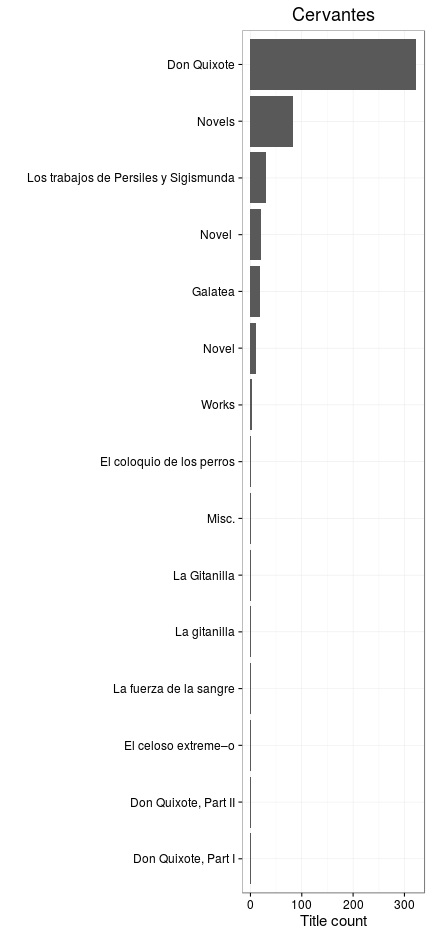
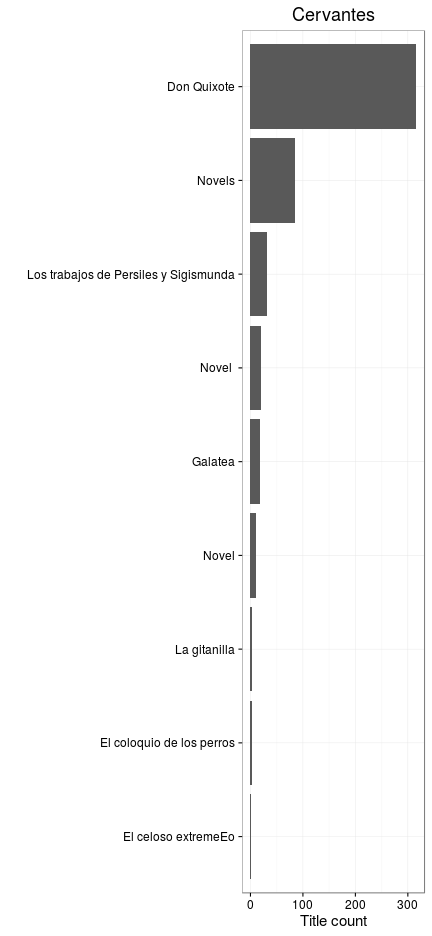
ok

diff --git a/inst/examples/Shakespeare.md b/inst/examples/Shakespeare.md
@@ -6,29 +6,33 @@ output: markdown_document
 ---
 
 
-We are a team of an early modern intellectual historian [Mikko Tolonen](https://twitter.com/mikko_tolonen) and a data scientist in the field of bioinformatics ([Leo Lahti](http://www.iki.fi/Leo.Lahti)). Often on Friday nights we skype to discuss what should we do in the domain of digital humanities that nicely combines our interests. Today’s task was to do something to celebrate Shakespeare & Cervantes.
+We are a team of an early modern intellectual historian [Mikko
+Tolonen](https://twitter.com/mikko_tolonen) and a computational
+scientist and bioinformatician ([Leo
+Lahti](http://www.iki.fi/Leo.Lahti)). Often on Friday nights we skype
+to discuss digital humanities, a field that nicely combines our mutual
+interests in science and philosophy. Today’s task was to do something
+to celebrate Shakespeare & Cervantes.
 
-We have a peculiar interest in [library
+We decided to build on our peculiar interest in [library
 catalogues](https://www.liberquarterly.eu/article/10.18352/lq.10112/)
-so we decided to build on that. We used the [CERL Heritage of the
-Printed Book Catalogue (HPB)](https://www.cerl.org/resources/hpb/main)
-and [British Library’s English Short-Title Catalogue
-(ESTC)](http://estc.bl.uk/F/?func=file&file_name=login-bl-estc) to
-analyse the early modern publishing (1593-1800) of Shakespeare and
-Cervantes. Here are some graphs that we thought you might find
-interesting. All illustrations are based on combined data from the
-ESTC and CERL catalogues unless otherwise mentioned.
+by taking the [CERL Heritage of the Printed Book Catalogue
+(HPB)](https://www.cerl.org/resources/hpb/main) and [British Library’s
+English Short-Title Catalogue
+(ESTC)](http://estc.bl.uk/F/?func=file&file_name=login-bl-estc). We
+then carried out a brief but revealing analysis concerning the early
+modern publishing (1593-1800) of Shakespeare and Cervantes. Check
+below for some graphs that we thought you might find interesting.
 
 In the ESTC and CERL catalogues, we have metadata on roughly 0.5 and 5
-million documents in total, respectively, covering publication
-activity around 1470-1800. With a combination of
-[automated](https://github.com/rOpenGov/estc) and manual data
-processing, we identified for Shakespeare 1271
-documents in total (ESTC 1042;
-CERL 229), and for Cervantes
-488 documents in total (ESTC
-94; CERL
-394).
+million documents, respectively, between 1470-1800. With a combination
+of [automated](https://github.com/rOpenGov/estc) and manual data
+processing, we identified 1271 documents for
+Shakespeare (ESTC 1042; CERL `r
+sum(tabs$Shakespeare$source == "cerl")`), and 488
+documents for Cervantes (ESTC 94; CERL 394). All
+illustrations are based on the combined data from these two catalogues
+unless otherwise mentioned.
 
 
 ### Relative publishing activity: Shakespeare
@@ -56,12 +60,7 @@ witness the new rise of comedies.
 No real surprises here. Collected works and plays are of course an important source to access Shakespeare. But in the Top-5 list of single plays Hamlet, Romeo and Juliet, Macbeth and Othello are where you might expect to find them. Perhaps slightly surprising is that Julius Caesar beats Merchant of Venice and Merry Wives of Windsor. 
 
 
-
-```
-## Error in data.frame(names = c("Don Quixote", "Novels", "Los trabajos de Persiles y Sigismunda", : invalid multibyte string, element 9
-```
-
-<img src="figure/shakespeare-titles-1.png" title="plot of chunk shakespeare-titles" alt="plot of chunk shakespeare-titles" width="400px" />
+<img src="figure/shakespeare-titles-1.png" title="plot of chunk shakespeare-titles" alt="plot of chunk shakespeare-titles" width="400px" /><img src="figure/shakespeare-titles-2.png" title="plot of chunk shakespeare-titles" alt="plot of chunk shakespeare-titles" width="400px" />
 
 
 ### Cervantes popularity
@@ -91,5 +90,24 @@ There exists great scholarship on Shakespeare’s copyrights in the eighteenth c
 
 **NB! Regarding method**
 
-The trick to get this approach working is to harmonize the catalogued fields so we may trust the statistics that library catalogue data can provide us. For example, for this analysis most of our time was spent matching different entries of works in the ESTC and the HPB and removing hundreds of duplicate entries in the HPB data. We also took full advantage of our purpose-built tool, Bibliographica, to automatize this cleaning process for any library catalogue as far as possible with custom algorithms, as implemented for instance in our [bibliographica R package](https://github.com/rOpenGov/bibliographica). The idea is not that this “big data approach” relying on library catalogue data would be perfect in terms of including every single translation of Shakespeare and Don Quixote on the continent or early modern Britain. But when the harmonizing of the catalogued fields is done properly, the approach gives us trustworthy results about the publishing trends that we are interested in.
+The trick to get this approach working is to harmonize the catalogued
+fields so we may trust the statistics that library catalogue data can
+provide us. For example, for this analysis most of our time was spent
+matching different entries of works in the ESTC and the HPB and
+removing hundreds of duplicate entries in the HPB data. We also took
+full advantage of our custom algorithms, implemented in the
+[bibliographica R
+package](https://github.com/rOpenGov/bibliographica/), to automatize
+this cleaning process for any library catalogue as far as
+possible. The idea is not that this “big data approach” relying on
+library catalogue data would be perfect in terms of including every
+single translation of Shakespeare and Don Quixote on the continent or
+early modern Britain. But when the harmonizing of the catalogued
+fields is done properly, the approach gives us trustworthy results
+about the publishing trends that we are interested in. Whereas the raw
+data is not (yet) openly available, the full preprocessing workflows
+for [ESTC](https://github.com/rOpenGov/estc/) and
+[CERL](https://github.com/rOpenGov/estc/) are available via Github, as
+well as the full source code of [this blog
+post](https://github.com/rOpenGov/ropengov.github.io/tree/site-development/_Rmdposts).
 
